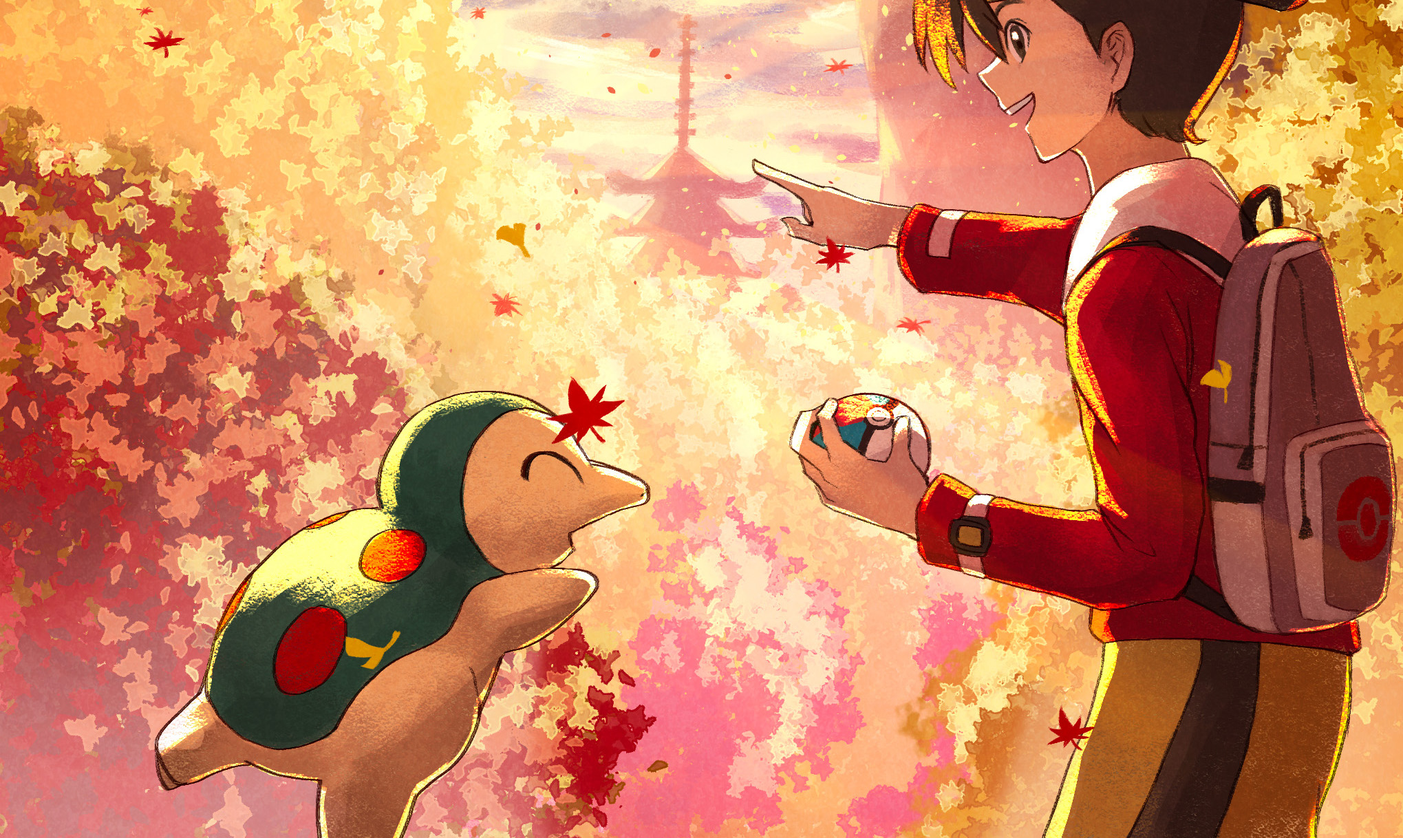
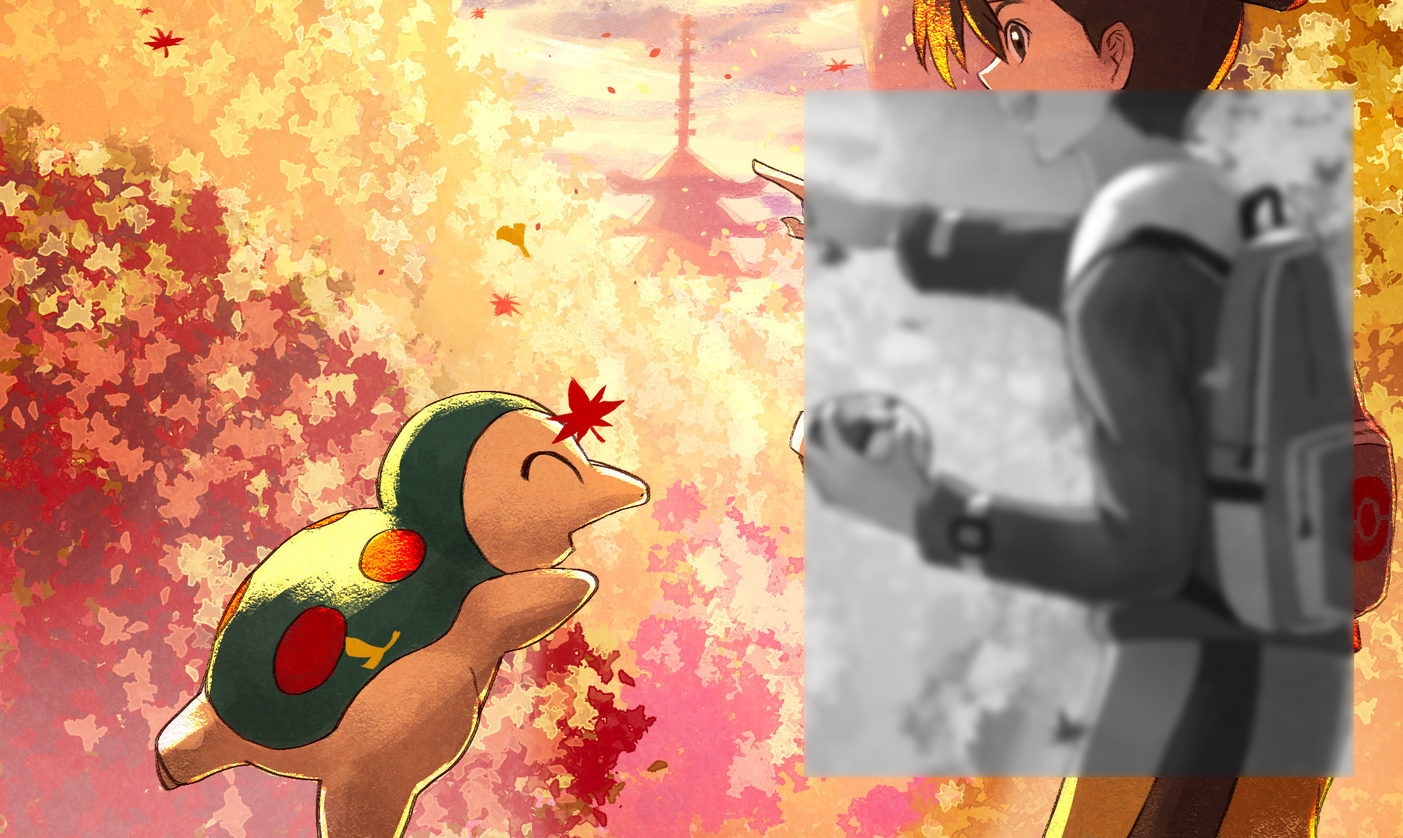
会員登録画面のあと登録するボタンだけ

diff --git a/app/assets/stylesheets/register.scss b/app/assets/stylesheets/register.scss
@@ -10,20 +10,65 @@
 }
 
 .register_image {
-  display: flex;
   width: 100%;
   height: 100vh;
 }
 
-.register_registerform {
+.register_font_area {
+  width: 100%;
+  height: 100vh;
   position: absolute;
-  width: 40%;
-  padding-left: 30%;
-  background-color: rgba(255, 255, 255, 0.8);
-  height: 90%;
+}
+
+.register_font {
+  display: flex;
+  position: relative;
+  color: #f54141;
+  font-size: 100px;
+  font-weight: 70;
+  font-family: "HiraKakuProN-W6", "Arial Black";
+  width: 50%;
+  padding-left: 20px;
+}
+
+.register_form_area {
+  position: absolute;
+  width: 39.5%;
+  height: 82%;
+  top: 10.5%;
+  left: 57.5%;
+}
+
+.register_form {
+  width: 90%;
+  height: 100%;
+  position: absolute;
   top: 5%;
-  left: 58%;
-  mix-blend-mode: color;
+  left: 4.5%;
+}
+
+.register_text_form {
+  width: 100%;
+  background-color: transparent;
+  border: 1px solid #000000;
+  margin-top: 10px;
+  box-shadow: 0 0 35px rgba(0, 0, 0, 0.5);
+  height: 35px;
+}
+
+.register_text_form:focus {
+  outline: 0;
+  background-color: rgba(255, 255, 255, 0.3);
+}
+
+.register_form_font {
+  color: black;
+  margin-top: 30px;
+  font-weight: bold;
+}
+
+.register_submit {
+  margin-top: 10px;
 }
 
 div.field_with_errors .form-control {
